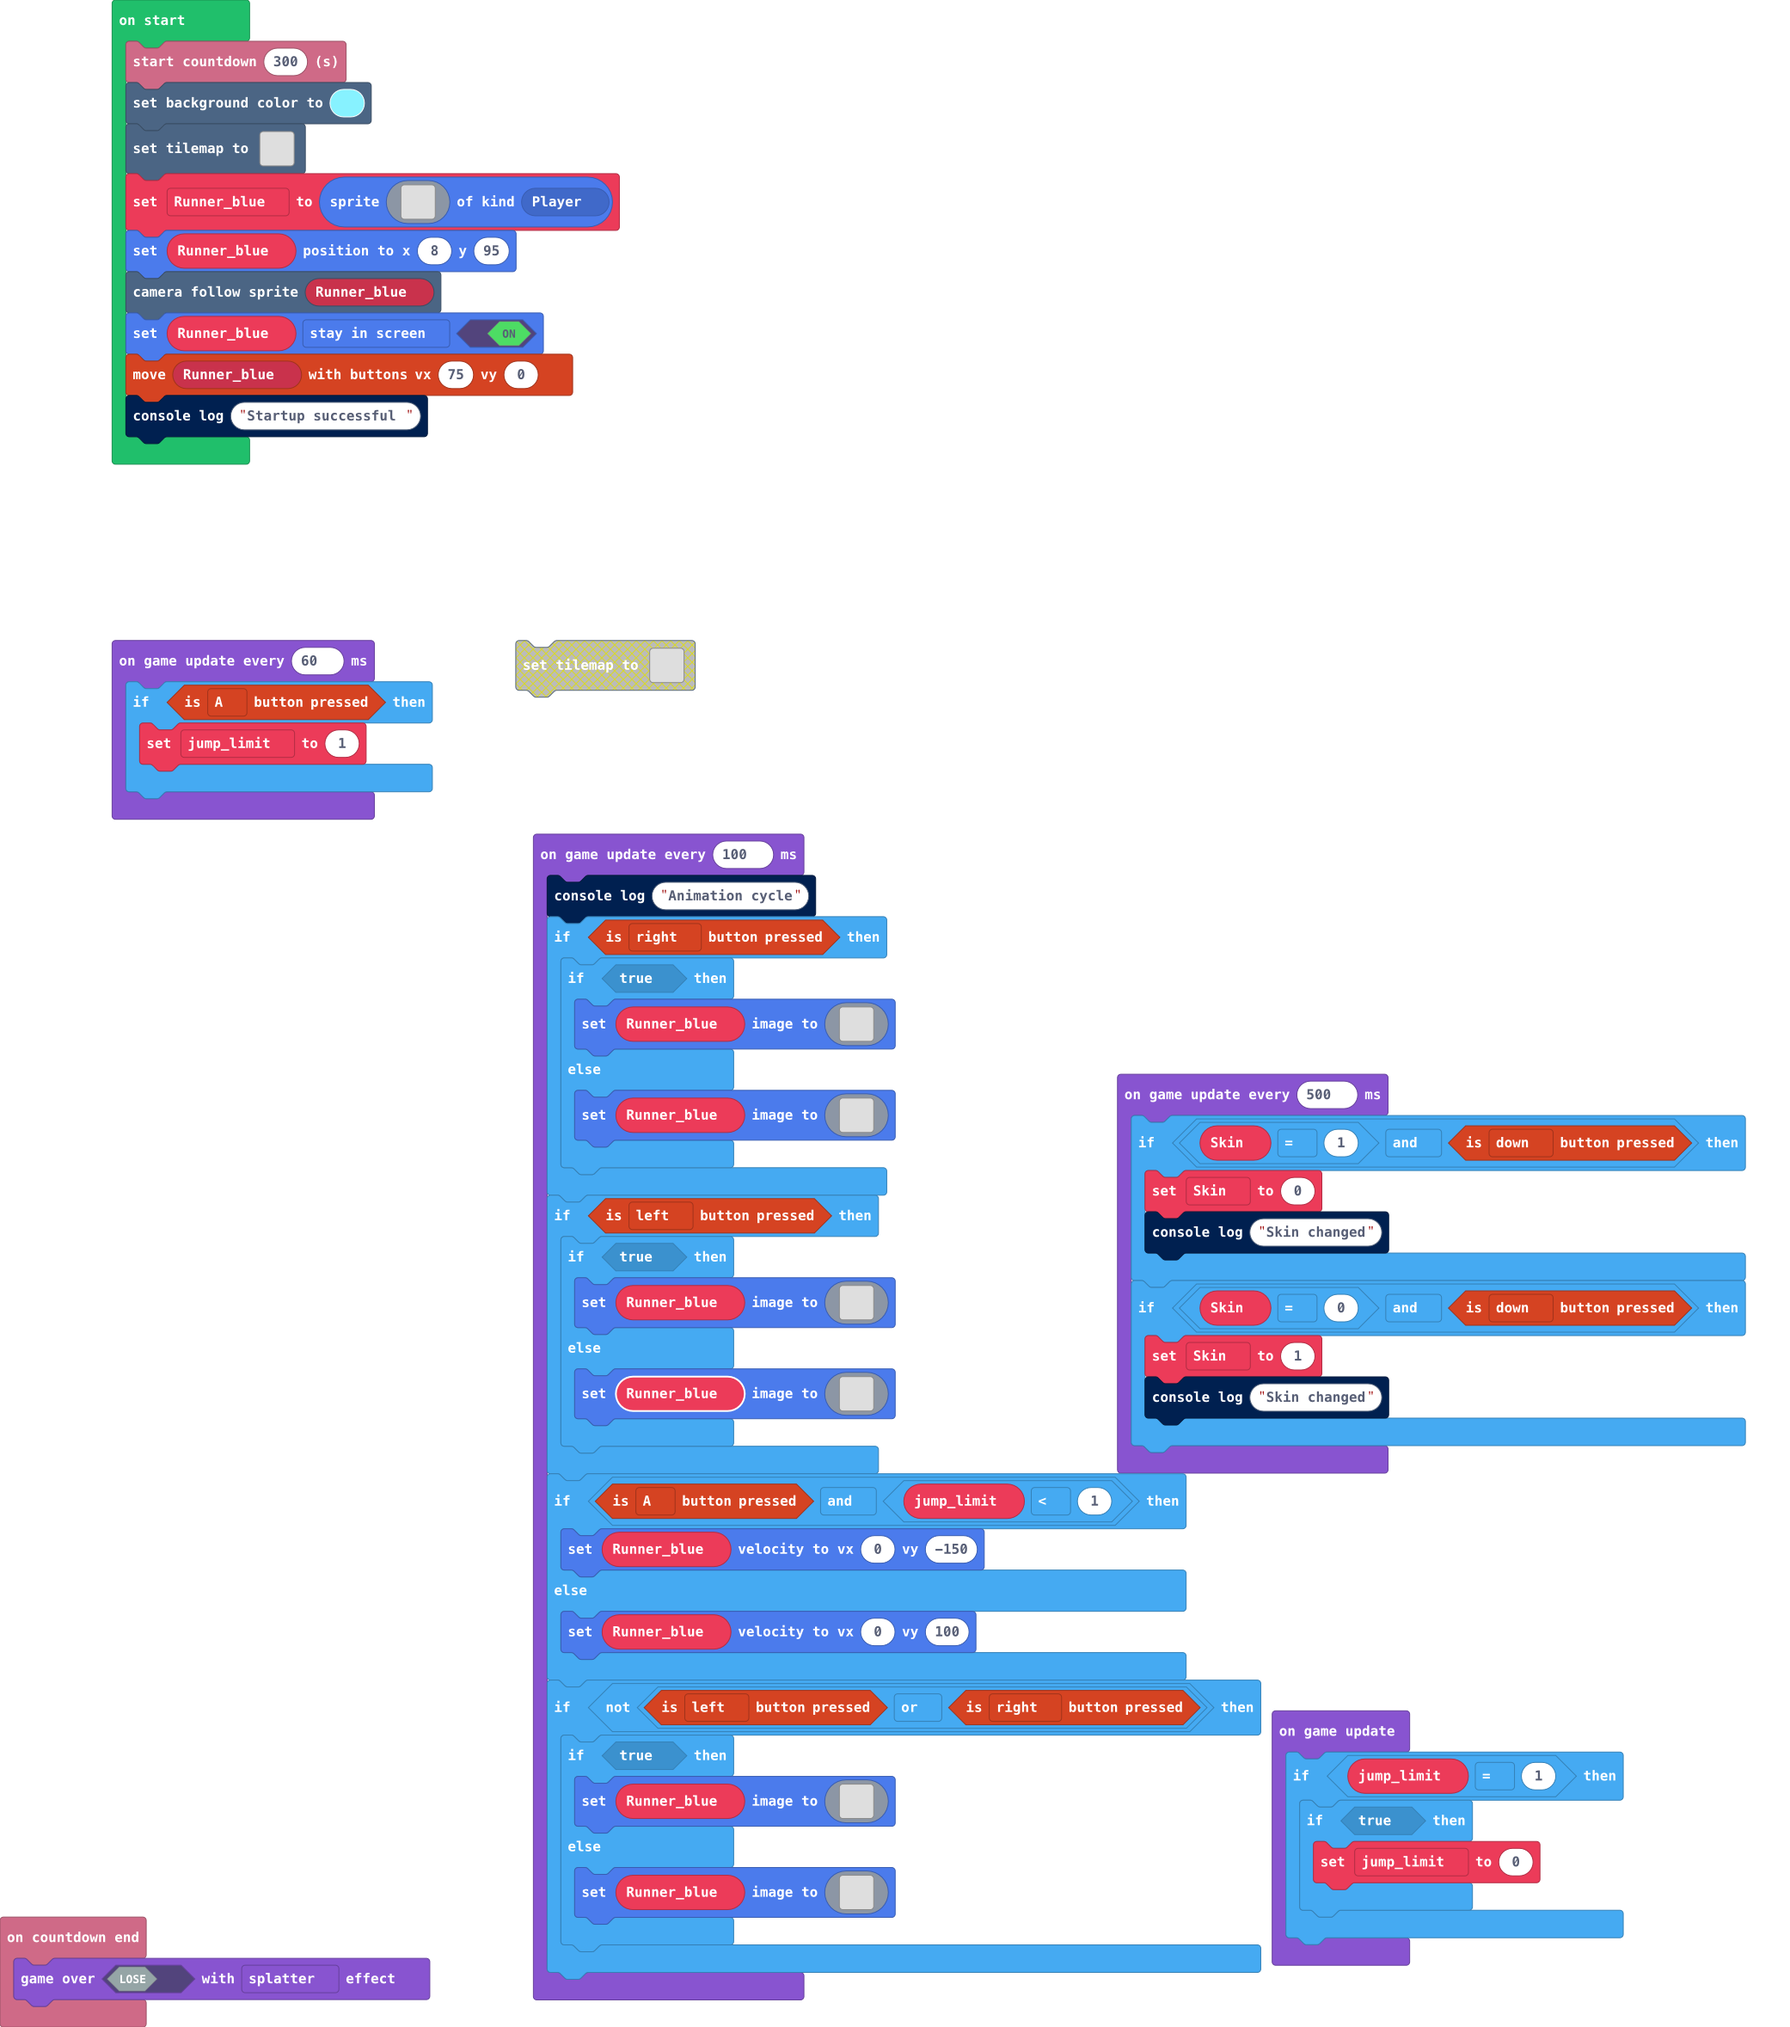
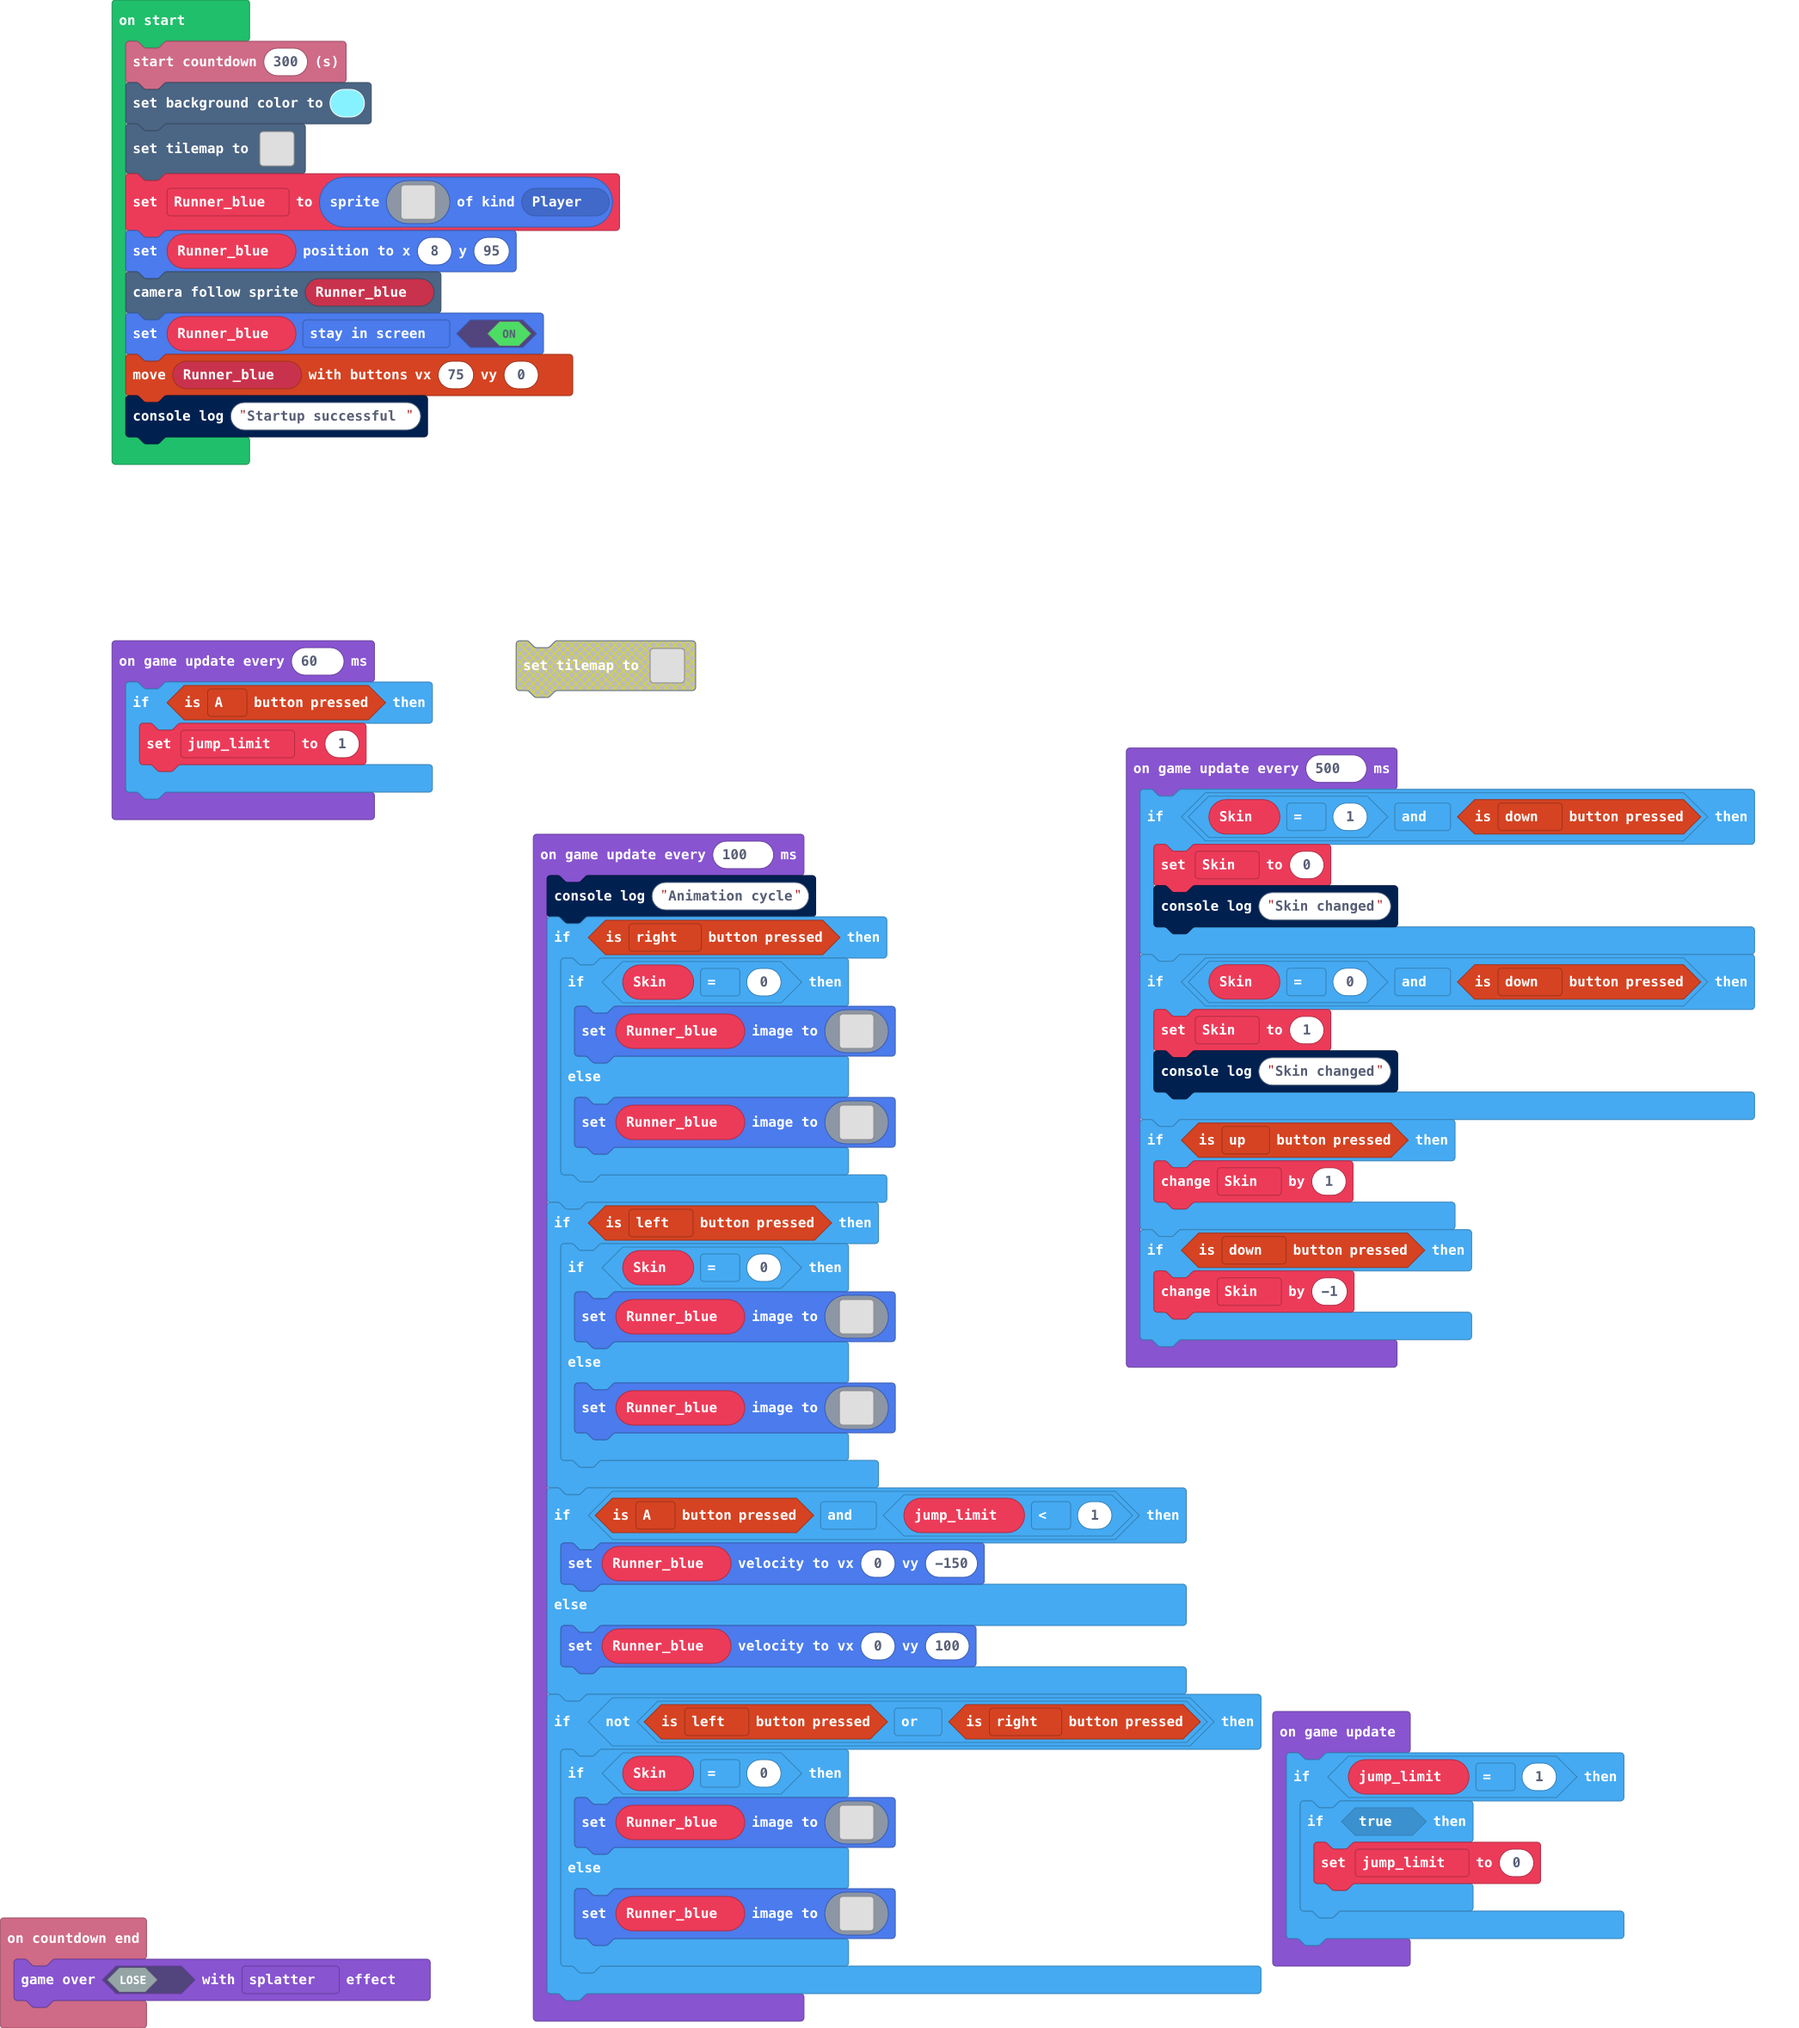
Update main.blocks, main.ts

diff --git a/main.ts b/main.ts
@@ -62,11 +62,17 @@ game.onUpdateInterval(500, function () {
         Skin = 1
         console.log("Skin changed")
     }
+    if (controller.up.isPressed()) {
+        Skin += 1
+    }
+    if (controller.down.isPressed()) {
+        Skin += -1
+    }
 })
 game.onUpdateInterval(100, function () {
     console.log("Animation cycle")
     if (controller.right.isPressed()) {
-        if (true) {
+        if (Skin == 0) {
             Runner_blue.setImage(img`
                 . . . . . . . . . . . . . 
                 . . . f f f f f f . . . . 
@@ -87,27 +93,27 @@ game.onUpdateInterval(100, function () {
                 `)
         } else {
             Runner_blue.setImage(img`
-                . . . . . . . . . . . . . 
-                . . . f f f f f f . . . . 
-                . f f f f f f f f f . . . 
-                . f f f f f f c f f f . . 
-                f f f f c f f f c f f f . 
-                f c f f c c f f f c c f f 
-                f c c f f f f e f f f f f 
-                f f f f f f f e e f f f . 
-                f f e e f b f e e f f f . 
-                f f e 4 e 1 f 4 4 f f . . 
-                . f f f e 4 4 4 4 f . . . 
-                . 4 4 4 e e e e f f . . . 
-                . e 4 4 e 7 7 7 7 f . . . 
-                . f e e f 6 6 6 6 f f . . 
-                . f f f f f f f f f f . . 
-                . . f f . . . f f f . . . 
+                . . . . . . f f f f 4 4 f . . . 
+                . . . . f f b f 5 4 5 5 4 f . . 
+                . . . f b 3 3 e 4 5 5 5 5 f . . 
+                . . f b 3 3 3 3 e 4 4 4 e f . . 
+                . . f 3 3 3 3 3 3 3 3 3 3 f . . 
+                . . f 3 3 3 3 e b 3 e e 3 3 f . 
+                . . f 3 3 3 3 f f e e e 3 3 f . 
+                . . f b b b b f b f e e e 3 f . 
+                . . f b b b b e 1 f 4 4 e f . . 
+                . f f b b b b f 4 4 4 4 f . . . 
+                . f b b b b f f f e e e f . . . 
+                . . f b b f 4 4 e d d d f . . . 
+                . . . f f e 4 4 e d d d f . . . 
+                . . . . f b e e b d b d b f . . 
+                . . . . f f d 1 d 1 d 1 f f . . 
+                . . . . . . f f b b f f . . . . 
                 `)
         }
     }
     if (controller.left.isPressed()) {
-        if (true) {
+        if (Skin == 0) {
             Runner_blue.setImage(img`
                 . . . . . . . . . . . . . 
                 . . . . f f f f f f . . . 
@@ -128,22 +134,22 @@ game.onUpdateInterval(100, function () {
                 `)
         } else {
             Runner_blue.setImage(img`
-                . . . . . . . . . . . . . 
-                . . . . f f f f f f . . . 
-                . . . f f f f f f f f f . 
-                . . f f f c f f f f f f . 
-                . f f f c f f f c f f f f 
-                f f c c f f f c c f f c f 
-                f f f f f e f f f f c c f 
-                . f f f e e f f f f f f f 
-                . f f f e e f b f e e f f 
-                . . f f 4 4 f 1 e 4 e f f 
-                . . . f 4 4 4 4 e f f f . 
-                . . . f f e e e e 4 4 4 . 
-                . . . f 7 7 7 7 e 4 4 e . 
-                . . f f 6 6 6 6 f e e f . 
-                . . f f f f f f f f f f . 
-                . . . f f f . . . f f . . 
+                . . . f 4 4 f f f f . . . . . . 
+                . . f 4 5 5 4 5 f b f f . . . . 
+                . . f 5 5 5 5 4 e 3 3 b f . . . 
+                . . f e 4 4 4 e 3 3 3 3 b f . . 
+                . . f 3 3 3 3 3 3 3 3 3 3 f . . 
+                . f 3 3 e e 3 b e 3 3 3 3 f . . 
+                . f 3 3 e e e f f 3 3 3 3 f . . 
+                . f 3 e e e f b f b b b b f . . 
+                . . f e 4 4 f 1 e b b b b f . . 
+                . . . f 4 4 4 4 f b b b b f f . 
+                . . . f e e e f f f b b b b f . 
+                . . . f d d d e 4 4 f b b f . . 
+                . . . f d d d e 4 4 e f f . . . 
+                . . f b d b d b e e b f . . . . 
+                . . f f 1 d 1 d 1 d f f . . . . 
+                . . . . f f b b f f . . . . . . 
                 `)
         }
     }
@@ -153,7 +159,7 @@ game.onUpdateInterval(100, function () {
         Runner_blue.setVelocity(0, 100)
     }
     if (!(controller.left.isPressed() || controller.right.isPressed())) {
-        if (true) {
+        if (Skin == 0) {
             Runner_blue.setImage(img`
                 . . . f f f f f . . . . . 
                 . f f f f f f f f f . . . 
@@ -174,22 +180,22 @@ game.onUpdateInterval(100, function () {
                 `)
         } else {
             Runner_blue.setImage(img`
-                . . . f f f f f . . . . . 
-                . f f f f f f f f f . . . 
-                . f f f f f f c f f f . . 
-                f f f f c f f f c f f . . 
-                f c f f c c f f f c c f f 
-                f c c f f f f e f f f f f 
-                f f f f f f f e e f f f . 
-                f f e e f b f e e f f . . 
-                . f e 4 e 1 f 4 4 f . . . 
-                . f f f e 4 4 4 4 f . . . 
-                . . f e e e e e f f . . . 
-                . . e 4 4 e 7 7 7 f . . . 
-                . . e 4 4 e 7 7 7 f . . . 
-                . . f e e f 6 6 6 f . . . 
-                . . . f f f f f f . . . . 
-                . . . . f f f . . . . . . 
+                . . . . . f f 4 4 f f . . . . . 
+                . . . . f 5 4 5 5 4 5 f . . . . 
+                . . . f e 4 5 5 5 5 4 e f . . . 
+                . . f b 3 e 4 4 4 4 e 3 b f . . 
+                . . f 3 3 3 3 3 3 3 3 3 3 f . . 
+                . f 3 3 e b 3 e e 3 b e 3 3 f . 
+                . f 3 3 f f e e e e f f 3 3 f . 
+                . f b b f b f e e f b f b b f . 
+                . f b b e 1 f 4 4 f 1 e b b f . 
+                f f b b f 4 4 4 4 4 4 f b b f f 
+                f b b f f f e e e e f f f b b f 
+                . f e e f b d d d d b f e e f . 
+                . . e 4 c d d d d d d c 4 e . . 
+                . . e f b d b d b d b b f e . . 
+                . . . f f 1 d 1 d 1 d f f . . . 
+                . . . . . f f b b f f . . . . . 
                 `)
         }
     }
